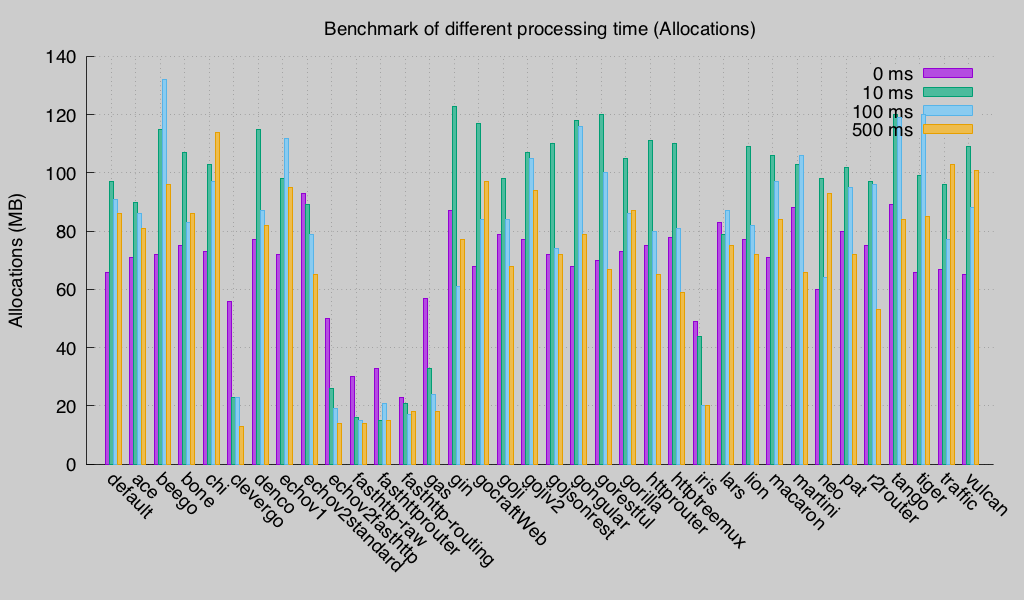
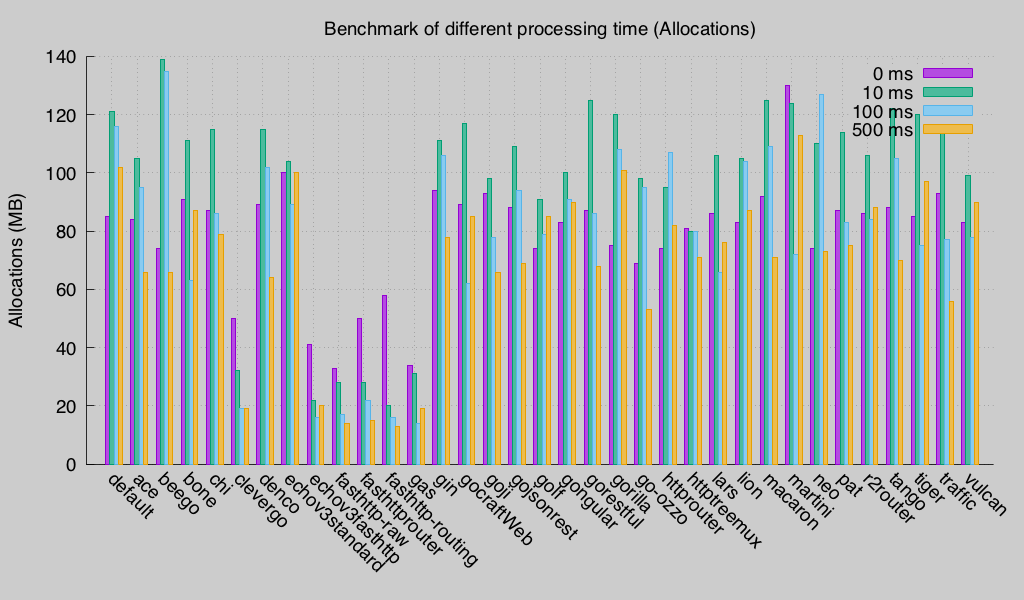
update latest benchmark

diff --git a/README.md b/README.md
@@ -1,14 +1,14 @@
 # go-web-framework-benchmark
 This benchmark suite aims to compare the performance of Go web frameworks. It is inspired by [Go HTTP Router Benchmark](https://github.com/julienschmidt/go-http-routing-benchmark) but this benchmark suite is different with that. Go HTTP Router Benchmark suit aims to compare the performance of **routers** but this Benchmark suit aims to compare whole HTTP request processing.
 
-**Last Test Updated:** 2016-09-14
+**Last Test Updated:** 2016-11-08
 
 *test environment*
 
 * CPU:      Intel(R) Xeon(R) CPU E5-2620 0 @ 2.00GHz, 24 cores
 * Memory:   16G
-* Go:       1.7
-* OS:       CentOS 6.4 / 2.6.32-358.el6.x86_64
+* Go:       1.7.3
+* OS:       CentOS 7.2 / 3.10.0-327.36.3.el7.x86_64
 
 (doesn't contain test results of neo because one error)
 
